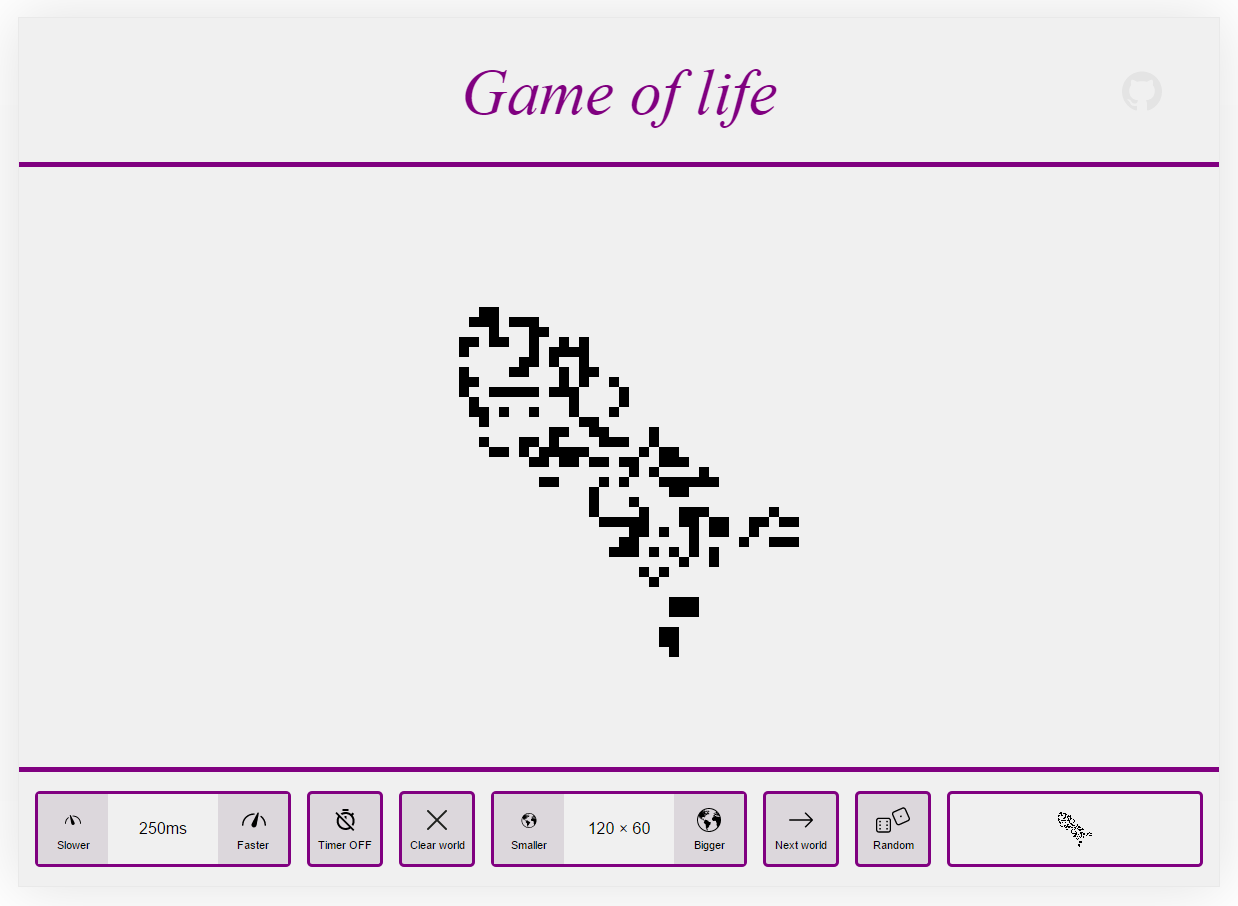
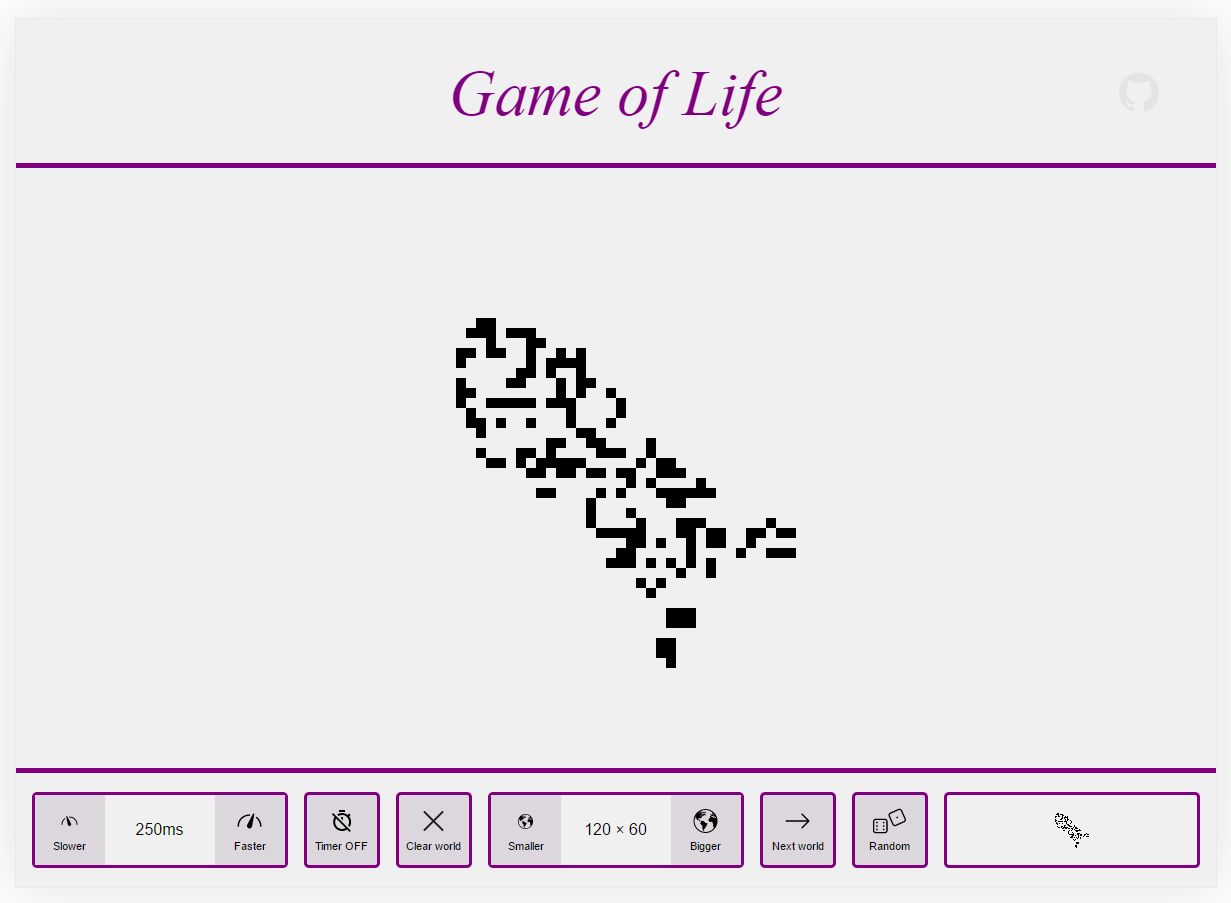
Game of life -> Game of Life

Changed region(s): [[0.0, 0.8372, 0.9878, 0.9612], [0.3704, 0.3411, 0.6483, 0.7442], [0.0309, 0.062, 0.9878, 0.186]]

diff --git a/app/index.html b/app/index.html
@@ -13,7 +13,7 @@
     <div class="page">
 
       <div class="heading">
-        <h1 class="heading__text" id="heading">Game of life</h1>
+        <h1 class="heading__text" id="heading">Game of Life</h1>
       </div>
 
       <div class="stats" id="stats-wrapper">

diff --git a/README.md b/README.md
@@ -1,4 +1,6 @@
-# game-of-life
+# Game of Life
+
+Game of life written ES2015 and Redux
 
 ## Demo
 
